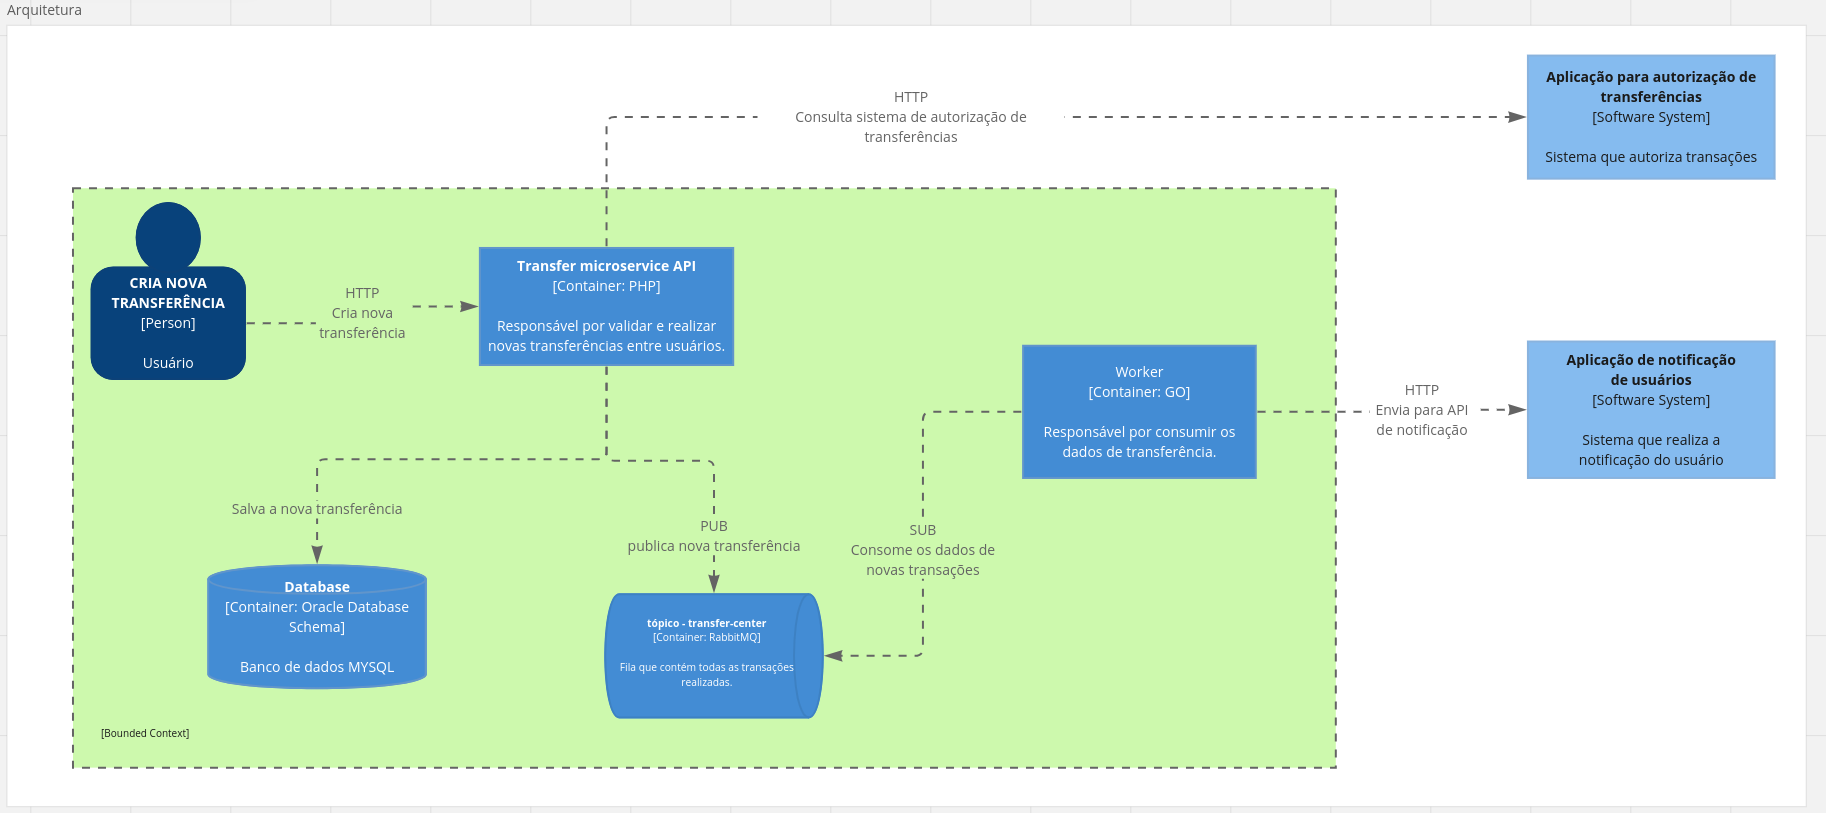
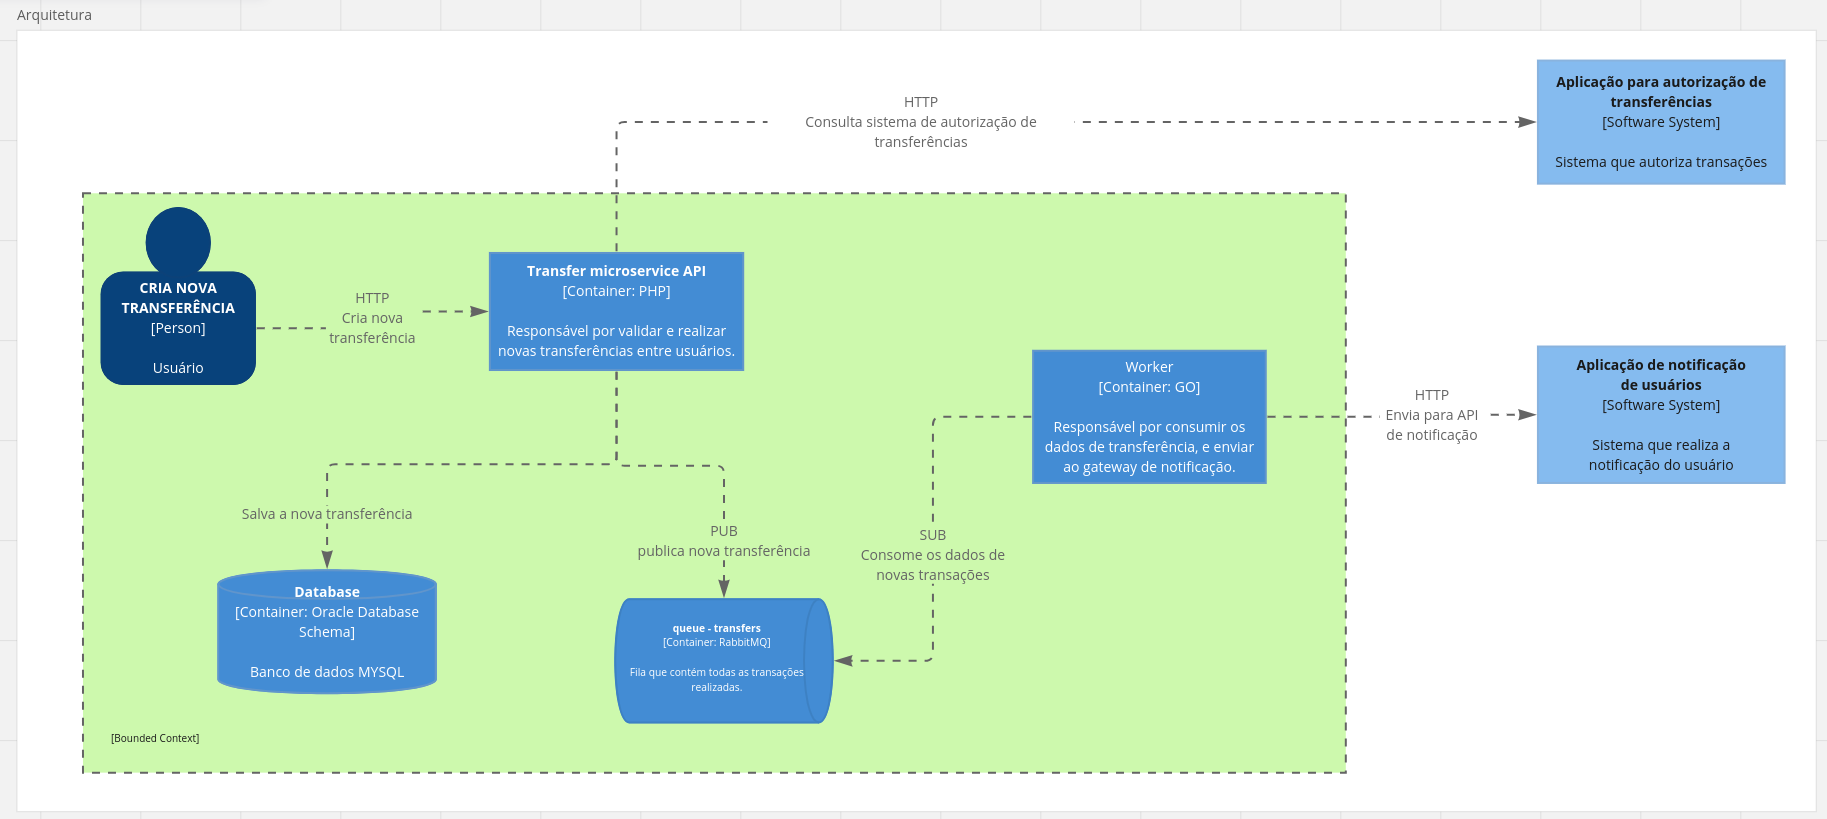
docs: update readme documentation

diff --git a/README.md b/README.md
@@ -1,6 +1,6 @@
 # GO transfer Worker
 
-API responsável por receber transferências e notificar os usuários sobre transações
+Worker responsável por receber transferências e enviar para o gateway de notificação de transação.
 
 ### Architecture
 
